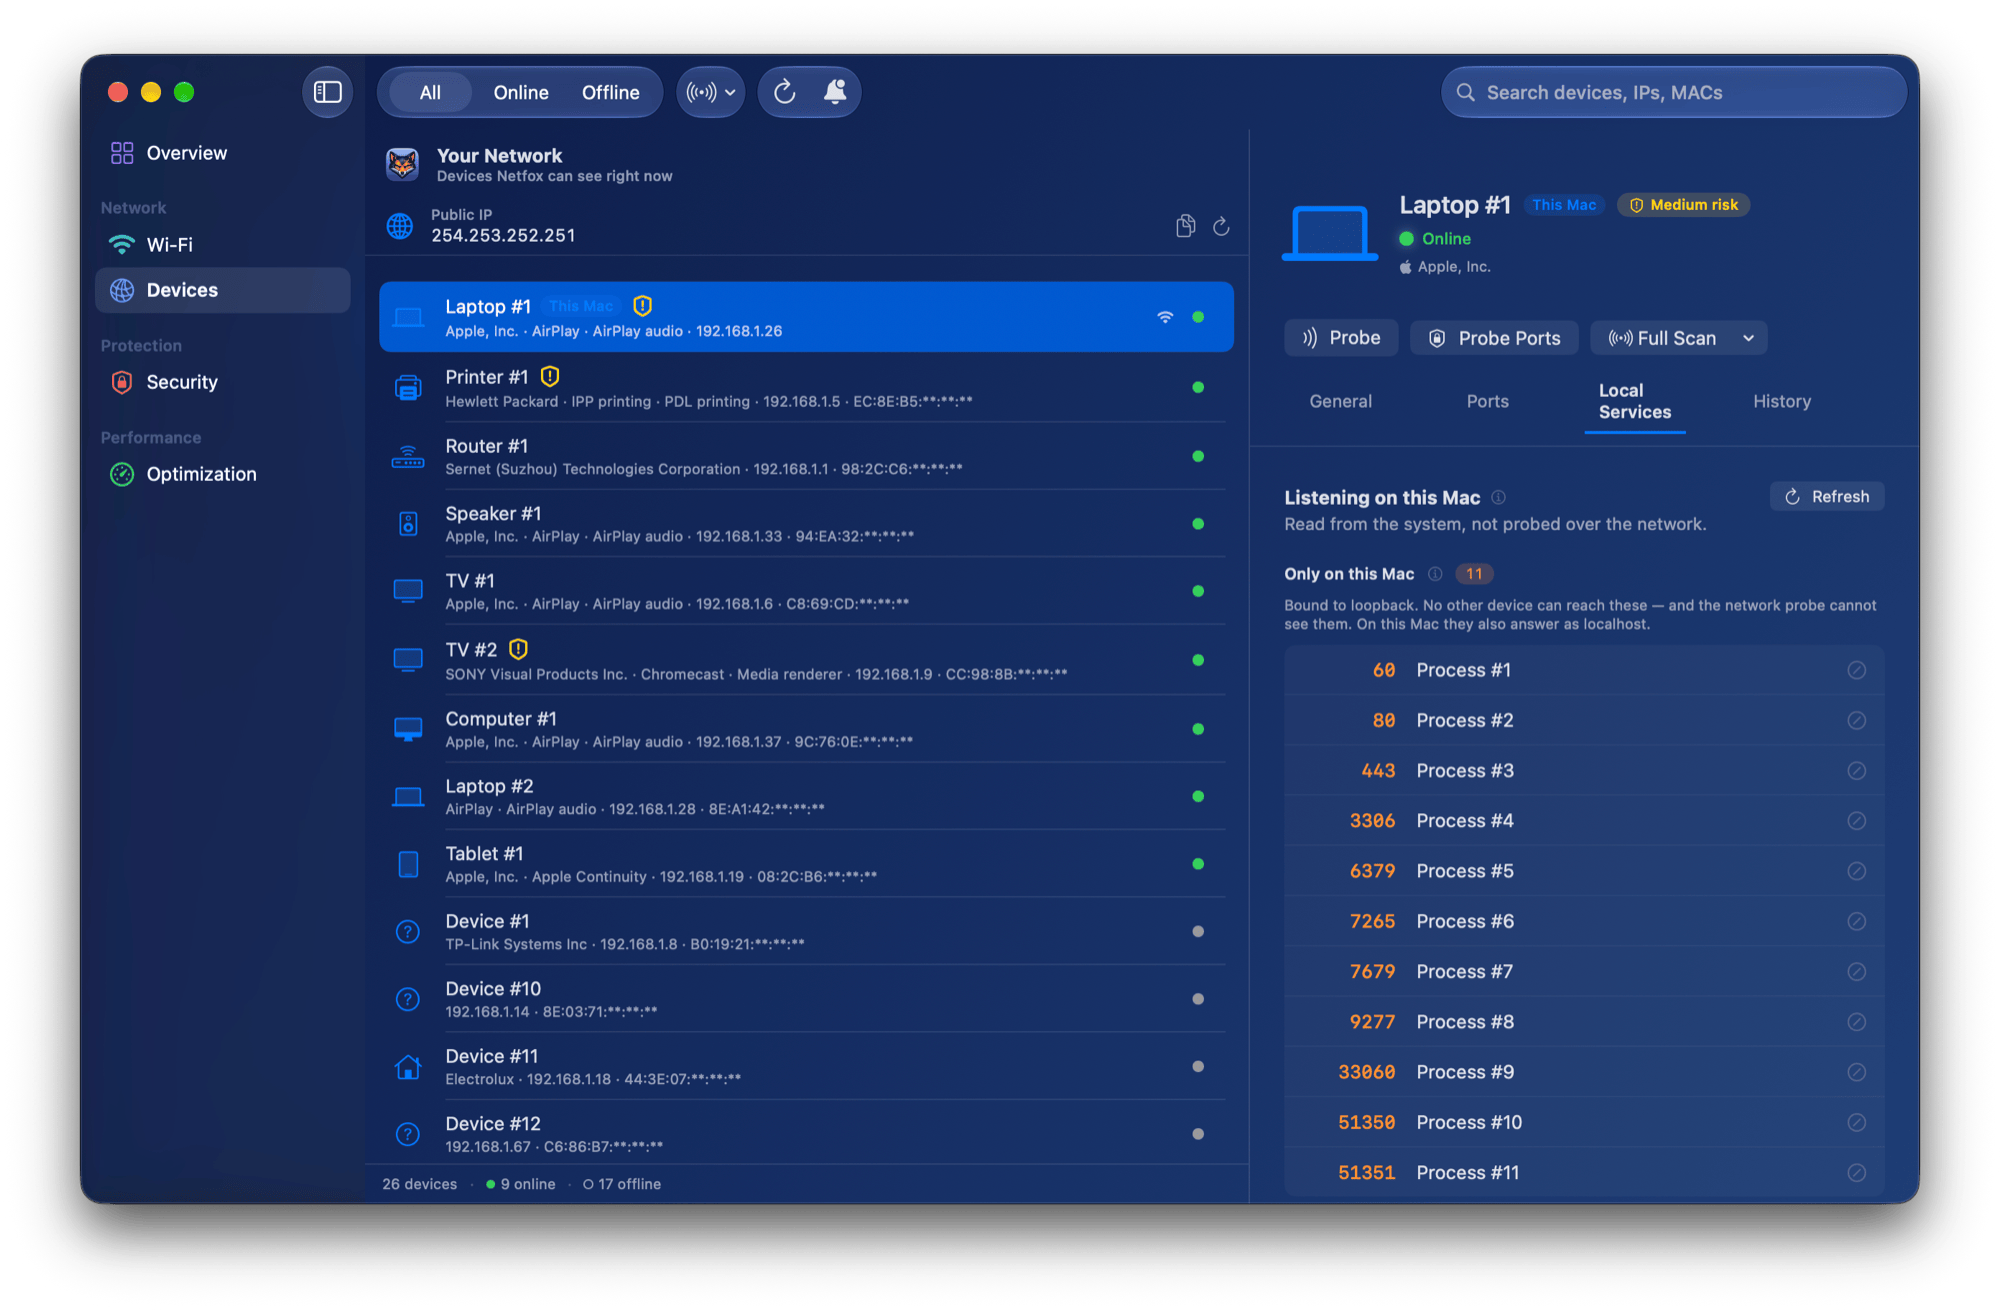
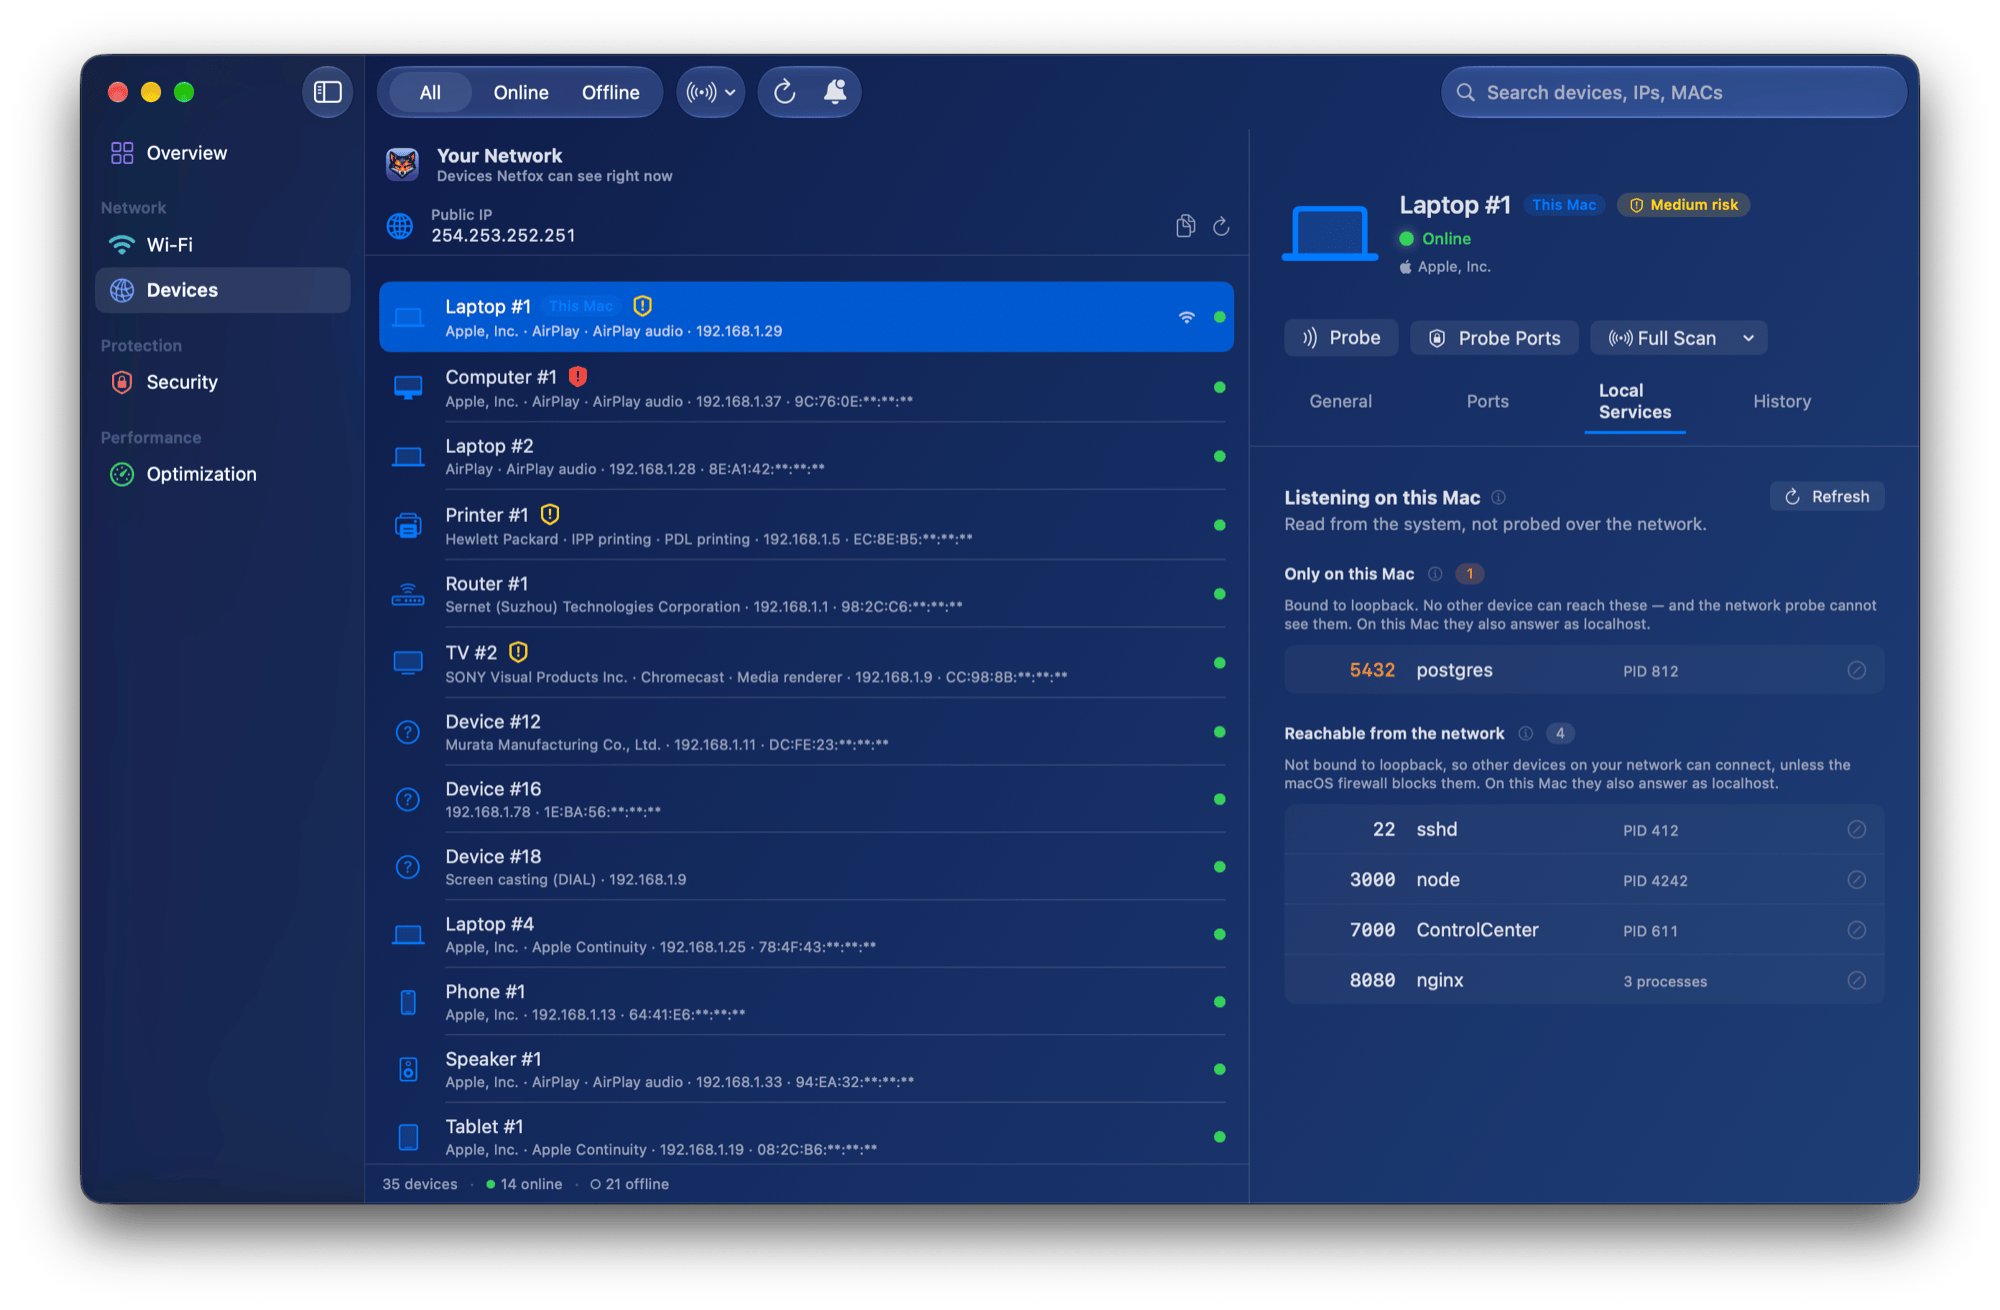
feat(sparkle): publish Netfox v0.54.2 to appcast

diff --git a/public/release-notes/0.54.2.html b/public/release-notes/0.54.2.html
@@ -1,0 +1,89 @@
+<!DOCTYPE html>
+<html lang="en">
+<head>
+<meta charset="utf-8">
+<meta name="viewport" content="width=device-width, initial-scale=1">
+<title>Netfox 0.54.2 — Release Notes</title>
+<style>
+  :root {
+    color-scheme: light dark;
+    --bg: #ffffff;
+    --fg: #1a1a1a;
+    --accent: #f76707;
+    --muted: #6b6b73;
+    --code-bg: #f4f4f5;
+    --border: rgba(0,0,0,0.12);
+  }
+  @media (prefers-color-scheme: dark) {
+    :root {
+      --bg: #1c1c1e;
+      --fg: #ececec;
+      --muted: #9c9ca5;
+      --code-bg: #2c2c2e;
+      --border: rgba(255,255,255,0.14);
+    }
+  }
+  * { box-sizing: border-box; }
+  body {
+    font: 14px/1.55 -apple-system, BlinkMacSystemFont, "SF Pro Text", "Helvetica Neue", sans-serif;
+    color: var(--fg);
+    background: var(--bg);
+    margin: 0 auto;
+    padding: 20px 24px 40px;
+    max-width: 720px;
+  }
+  header.page-header {
+    border-bottom: 1px solid var(--border);
+    padding-bottom: 14px;
+    margin-bottom: 22px;
+  }
+  header.page-header h1 { font-size: 1.7em; margin: 0 0 4px; letter-spacing: -0.02em; }
+  header.page-header .subtitle { color: var(--muted); margin: 0; font-size: 0.92em; }
+  h1, h2, h3, h4 { letter-spacing: -0.01em; margin: 1.5em 0 0.5em; }
+  h1 { font-size: 1.4em; }
+  h2 { font-size: 1.2em; }
+  h3 { font-size: 1em; }
+  a { color: var(--accent); }
+  hr { border: 0; border-top: 1px solid var(--border); margin: 22px 0; }
+  ul, ol { padding-left: 1.4em; }
+  li { margin: 4px 0; }
+  code {
+    font: 0.9em ui-monospace, "SF Mono", Menlo, Consolas, monospace;
+    background: var(--code-bg);
+    padding: 1px 5px;
+    border-radius: 3px;
+  }
+  pre {
+    background: var(--code-bg);
+    padding: 12px 14px;
+    border-radius: 6px;
+    overflow-x: auto;
+    font-size: 0.88em;
+  }
+  pre code { background: transparent; padding: 0; font-size: 1em; }
+  blockquote {
+    margin: 12px 0;
+    padding-left: 12px;
+    border-left: 3px solid var(--border);
+    color: var(--muted);
+  }
+  table { border-collapse: collapse; width: 100%; margin: 12px 0; font-size: 0.95em; }
+  th, td { border: 1px solid var(--border); padding: 6px 10px; text-align: left; }
+  th { background: var(--code-bg); }
+  img { max-width: 100%; }
+</style>
+</head>
+<body>
+<header class="page-header">
+  <h1>Netfox 0.54.2</h1>
+  <p class="subtitle">Release notes</p>
+</header>
+<p>A small release for anyone who shows Netfox to others: in Demo Mode, the two tabs that describe This Mac now describe the same Mac.</p>
+<h2>Demo Mode</h2>
+<ul>
+<li>With sample data on, This Mac's <strong>Local Services</strong> tab lists the same invented listeners as its <strong>Ports</strong> tab (sshd, node, postgres, nginx, Control Center), with their process IDs, instead of a masked list of your own Mac's processes. A screenshot of either tab now shows the same sample Mac, and nothing that runs on yours.</li>
+<li>Turning the sample data or Demo Mode on and off updates both tabs at once, including from Settings while the main window is in the background.</li>
+<li>Quit stays unavailable on the sample listeners, with a note saying why: there is nothing behind them to quit.</li>
+</ul>
+</body>
+</html>

diff --git a/config/index.ts b/config/index.ts
@@ -94,13 +94,13 @@ export default {
     defaultLanguage: 'en',
   },
   app: {
-    version: '0.54.1',
+    version: '0.54.2',
     // Publication date of `version`, UTC, written by release.sh next to the
     // version itself. It is the OFFLINE FALLBACK for the homepage release
     // strip: the live date and the release count come from the GitHub
     // releases API, and this is what the strip shows when that call is
     // rate-limited or down. Also the JSON-LD `dateModified`.
-    releaseDate: '2026-11-10',
+    releaseDate: '2026-11-15',
     // 15.6, not 15.0: it is the pbxproj MACOSX_DEPLOYMENT_TARGET and the
     // appcast's sparkle:minimumSystemVersion. Only StructuredData reads this,
     // so a wrong value here is invisible on the page and still published to
